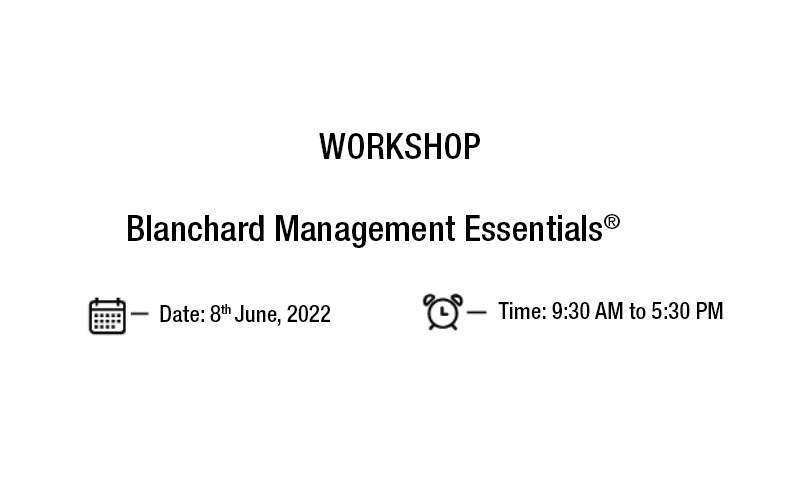
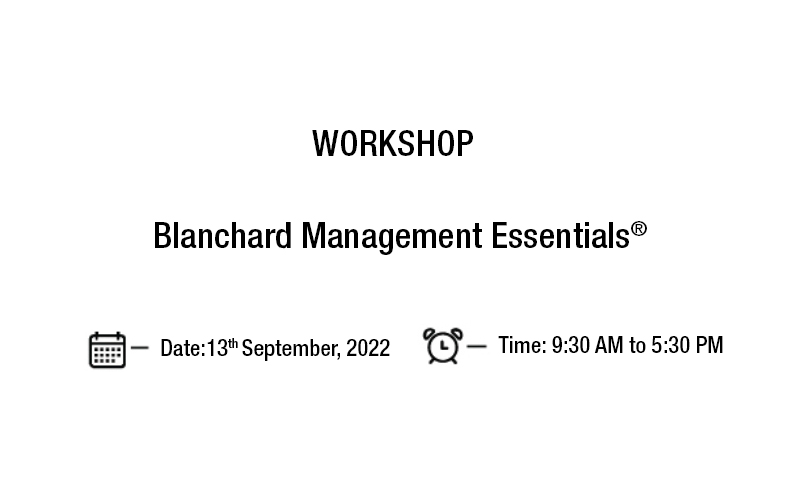
test

diff --git a/pages/lp/blanchard-management-essentials.js b/pages/lp/blanchard-management-essentials.js
@@ -102,7 +102,7 @@ export default function BlanchardManaE() {
                            <label>Interested In*</label>
                            <select name="interest_in" className="form-control" required>
                               <option value="">---Select---</option>
-                              <option value="Blanchard Management Essentials® Workshop 8th June 2022">Blanchard Management Essentials® Workshop 8th June 2022</option>
+                              <option value="Blanchard Management Essentials® Workshop 13th September 2022">Blanchard Management Essentials® Workshop 13th September 2022</option>
                            </select>
                            <div className="help-block with-errors"></div>
                         </div>
